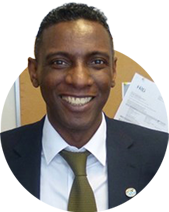
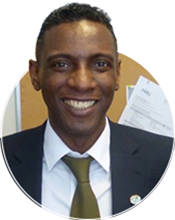
Fixing mobile header

diff --git a/index.html b/index.html
@@ -70,7 +70,7 @@
 
     <section class=header id="header">
         
-        <div class="flex-box">
+        <div class="flex-box" >
                <div class="header-image" ></div>
             <div class="heading-div">
                 <h1 class="fade-in heading">UNITING BLACK MINDS TO SEE BEYOND.
@@ -208,7 +208,7 @@
                 <div class="col-md-4">
                     <div class="flex-box team-div" data-aos="fade-up" data-aos-duration="2000" data-aos-once="true">
                         <div class="image-div">
-                            <img class="image" src="images/jon_profile.png" alt="Jon" style="margin-top: 0.8rem;">
+                            <img class="image" src="images/jon_profile.png" alt="Jon" >
                             <p class="job" style="top: 40%;">Assistant Headteacher</p>
                         </div>
                         <div >
@@ -222,8 +222,8 @@
                 <div class="col-md-4">
                     <div class="flex-box team-div" data-aos="fade-up" data-aos-duration="2000" data-aos-once="true">
                         <div class="image-div">
-                        <img class="image" src="images/sophie_profile.png" alt="Sophie">
-                        <p class="job" style="top: 40%;">PhD Student</p>
+                        <img class="image" src="images/sophie_profile.png" alt="Sophie" >
+                        <p class="job">PhD Student</p>
                         </div>
                         <div >
                             <h2 class="name"> Sophie Martin </h2>
@@ -236,12 +236,10 @@
             </div>
 
             <div class="row">
-
-
                 <div class="col-md-4 ">
                     <div class="flex-box team-div" data-aos="fade-up" data-aos-duration="2000" data-aos-once="true">
                         <div class="image-div">
-                            <img class="image" src="images/benyam_profile.png" alt="Benyam" style="width: 11rem;">
+                            <img class="image" src="images/benyam_profile.png" alt="Benyam" >
                             <p class="job">Undergraduate Student</p>
                         </div>   
                             <div>
@@ -268,7 +266,7 @@
                 <div class="col-md-4 ">
                     <div class="flex-box team-div" data-aos="fade-up" data-aos-duration="2000" data-aos-once="true">
                         <div class="image-div">
-                            <img class="image" src="images/mark_profile.png" alt="Mark" style="width: 11rem;">
+                            <img class="image" src="images/mark_profile.png" alt="Mark" >
                             <p class="job"> Senior Lecturer </p>
                         </div>
                         <div >
@@ -416,7 +414,7 @@
             </h3>
 
                 <div >
-                        <div data-aos="fade-left" data-aos-duration="2000" data-aos-once="true"><img class="obj-icon" src="images/asset_increase.png" alt=""></div>
+                        <div data-aos="fade-right" data-aos-duration="2000" data-aos-once="true"><img class="obj-icon" src="images/asset_increase.png" alt=""></div>
                         <p class="mission-text subtext">Increase the number of Black UK domiciled students enrolled onto a physics or physics-related
                             course or scheme.
                         </p>
@@ -432,7 +430,7 @@
                 </div>
                 <div>
 
-                        <div data-aos="fade-left" data-aos-duration="2000" data-aos-once="true"><img class="obj-icon" src="images/asset_raise.png" alt=""></div>                        
+                        <div data-aos="fade-right" data-aos-duration="2000" data-aos-once="true"><img class="obj-icon" src="images/asset_raise.png" alt=""></div>                        
                         <p class="mission-text subtext">
                             Raise the awareness, knowledge and appreciation of physics in the Black community.
                         </p>

diff --git a/css/styles.css b/css/styles.css
@@ -8,7 +8,6 @@ body{
     text-align: center;
     background-color:black;
     color: white;
-    padding-top: 5%; /* For the sticky navbar */
 }
 
 html{
@@ -26,7 +25,7 @@ h4, h5, h6, p{
 }
 
 .maintext{
-    font-size: 1.2rem;
+    font-size: 1.1rem;
     padding-bottom: 1.3rem;
 }
 
@@ -75,6 +74,8 @@ h4, h5, h6, p{
     top: 180rem;
     right: 0px;
     width: 20%;
+
+    z-index: 0;
 }
 
 .device-box-cta{
@@ -83,6 +84,7 @@ h4, h5, h6, p{
     width: 30%;
     -webkit-transform: scaleX(-1);
     transform: scaleX(-1);
+    z-index: 0;
 }
 
 /* State styling */
@@ -179,15 +181,26 @@ url(
 /* Title */
 
 .header .heading-div{
-    margin: 5rem 15% 0rem 2rem;
+    margin: 4rem 15% 0rem 2rem;
 
 }
 
 .header .heading{
-    font-size: 3.8rem;
+    font-size: 3.5rem;
 }
 
+.header .flex-box{
+    display: block;
 
+}
+.header-image{
+    width:100%;
+    height: 35vh;
+    background-image: url('../images/header.jpg');
+    background-size: cover;
+    background-repeat: no-repeat;
+    margin-top: 10rem;
+    }
 
 hr{
     width: 10rem;
@@ -260,7 +273,6 @@ display: flex;
     width: 8rem; 
     margin:  0 0;
     padding: 0 0;
-
 }
 
 
@@ -617,7 +629,7 @@ font-weight: bold;
 
 /* Responsiveness */
 
-
+/* Web */
 @media (min-width:768px){
     .mobile-only{
         display: none;
@@ -629,7 +641,7 @@ font-weight: bold;
     body{padding-top: 0%;
     }
     .heading{
-        font-size: 5rem;
+        font-size: 5vmax;
         margin: 0 2rem 0 0;
         }
 
@@ -645,38 +657,32 @@ font-weight: bold;
 
     .header .heading-div{
         margin: auto 8% auto 4rem;
-        z-index: 150;
     }
 
- 
-  .header .flex-box{
-      margin: 8% 0 0 4rem;
+    .header .flex-box{
+      margin: 10% 0 0 4rem;
       display: flex;
       align-items: center;
       justify-content: center;
-
-  }
-        .header-image{
-            width:100%;
-            height: 600px;
-            background-image: url('../images/header.jpg');
-            background-size: cover;
-            background-repeat: no-repeat;
-            overflow:hidden;
-            position: relative;
-
+    }
+    
+    .header-image{
+    width:100%;
+    height: 600px;
+    overflow:hidden;
+    margin-top: 0;
+    position: relative;
     }
 
     .navbar-brand{
-        width: 6rem;
-        margin: 0 0 0 2rem;
-        padding: 3rem 0;
+    width: 6rem;
+    margin: 0 0 0 2rem;
+    padding: 3rem 0;
     }
-    
 
     .shell{
-        text-align: left;
-        padding: 4rem 4rem;
+    text-align: left;
+    padding: 4rem 4rem;
     }
 
     .flex-box{
@@ -706,9 +712,16 @@ height:auto;
 
     }
 
+    .image-div{
+        position: relative; 
+        display:inline-block;
+        object-fit: contain;
+        width: 11rem;
+    }
+    .image{
+        width: 100%;
+    }
 
-
-   
 .team-div:hover .image{
     opacity: 0.2;
 }
@@ -723,17 +736,11 @@ height:auto;
         padding: 0 0 0 1rem;
     
     }
-    .image{
-        width: 10rem;
-        margin:  0 0;
-        padding: 0 0;
-    
-    }
-
 
     .team-div .job{
         position:absolute;
         z-index: 10;
+        width: 100%;
         padding:  0 2rem;
         opacity: 0;
         top: 50%;
@@ -743,10 +750,7 @@ height:auto;
         margin: 0 auto;
     }
 
-    .image-div{
-        position: relative; 
-        display:inline-block;
-    }
+
     .mission-div{
         margin: 0 0;
         padding: 0 0;
@@ -827,8 +831,6 @@ font-size: 1rem;}
 .find-us h3{
 font-size: 1.8rem;}
 .redirect{margin-top: 5rem;}
-
-
 }
 
 
@@ -840,3 +842,5 @@ font-size: 1.8rem;}
     -o-animation: fadeIn ease 3s;
     -ms-animation: fadeIn ease 3s;
   }
+
+
